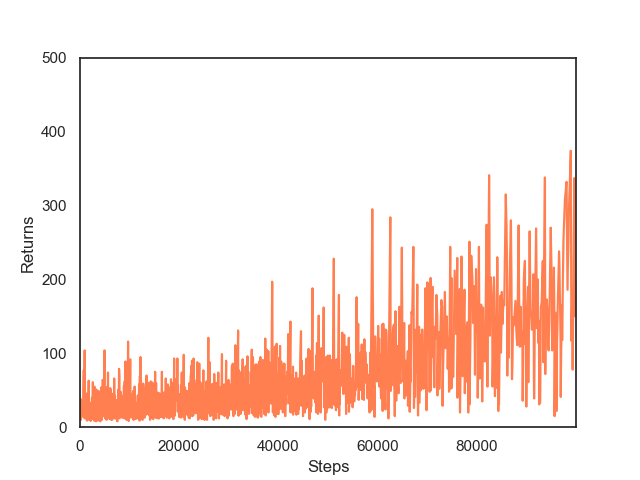
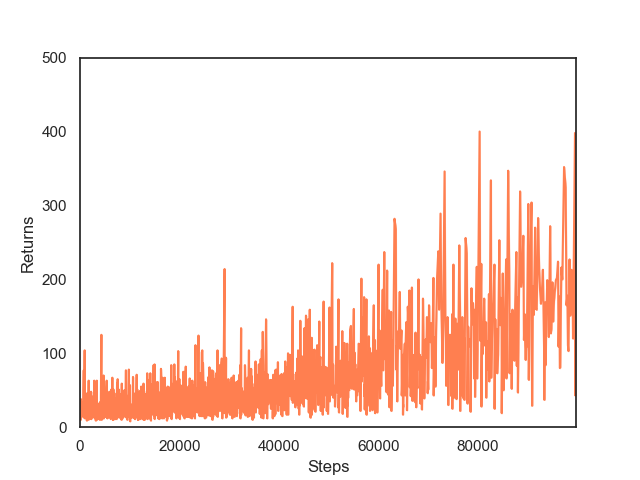
Add DRIL

diff --git a/main.py b/main.py
@@ -8,7 +8,7 @@ from tqdm import tqdm
 
 from environments import CartPoleEnv
 from evaluation import evaluate_agent
-from models import ActorCritic, AIRLDiscriminator, GAILDiscriminator, GMMILDiscriminator, REDDiscriminator
+from models import Actor, ActorCritic, AIRLDiscriminator, GAILDiscriminator, GMMILDiscriminator, REDDiscriminator
 from training import TransitionDataset, adversarial_imitation_update, behavioural_cloning_update, compute_advantages, indicate_absorbing, ppo_update, target_estimation_update
 from utils import flatten_list_dicts, lineplot
 
@@ -30,7 +30,7 @@ parser.add_argument('--max-grad-norm', type=float, default=1, metavar='N', help=
 parser.add_argument('--evaluation-interval', type=int, default=10000, metavar='EI', help='Evaluation interval')
 parser.add_argument('--evaluation-episodes', type=int, default=50, metavar='EE', help='Evaluation episodes')
 parser.add_argument('--save-trajectories', action='store_true', default=False, help='Store trajectories from agent after training')
-parser.add_argument('--imitation', type=str, default='', choices=['AIRL', 'BC', 'GAIL', 'GMMIL', 'RED'], metavar='I', help='Imitation learning algorithm')
+parser.add_argument('--imitation', type=str, default='', choices=['AIRL', 'BC', 'DRIL', 'GAIL', 'GMMIL', 'RED'], metavar='I', help='Imitation learning algorithm')
 parser.add_argument('--state-only', action='store_true', default=False, help='State-only imitation learning')
 parser.add_argument('--absorbing', action='store_true', default=False, help='Indicate absorbing states')
 parser.add_argument('--imitation-epochs', type=int, default=5, metavar='IE', help='Imitation learning epochs')
@@ -51,16 +51,18 @@ if args.imitation:
   # Set up expert trajectories dataset
   expert_trajectories = TransitionDataset(flatten_list_dicts(torch.load('expert_trajectories.pth')))
   # Set up discriminator
-  if args.imitation in ['AIRL', 'GAIL', 'GMMIL', 'RED']:
+  if args.imitation in ['AIRL', 'DRIL', 'GAIL', 'GMMIL', 'RED']:
     if args.imitation == 'AIRL':
       discriminator = AIRLDiscriminator(env.observation_space.shape[0] + (1 if args.absorbing else 0), env.action_space.n, args.hidden_size, args.discount, state_only=args.state_only)
+    elif args.imitation == 'DRIL':
+      discriminator = Actor(env.observation_space.shape[0], env.action_space.n, args.hidden_size, dropout=0.1)
     elif args.imitation == 'GAIL':
       discriminator = GAILDiscriminator(env.observation_space.shape[0] + (1 if args.absorbing else 0), env.action_space.n, args.hidden_size, state_only=args.state_only)
     elif args.imitation == 'GMMIL':
       discriminator = GMMILDiscriminator(env.observation_space.shape[0] + (1 if args.absorbing else 0), env.action_space.n, state_only=args.state_only)
     elif args.imitation == 'RED':
       discriminator = REDDiscriminator(env.observation_space.shape[0] + (1 if args.absorbing else 0), env.action_space.n, args.hidden_size, state_only=args.state_only)
-    if args.imitation in ['AIRL', 'GAIL', 'RED']:
+    if args.imitation in ['AIRL', 'DRIL', 'GAIL', 'RED']:
       discriminator_optimiser = optim.RMSprop(discriminator.parameters(), lr=args.learning_rate)
 # Metrics
 metrics = dict(train_steps=[], train_returns=[], test_steps=[], test_returns=[])
@@ -70,12 +72,17 @@ metrics = dict(train_steps=[], train_returns=[], test_steps=[], test_returns=[])
 state, terminal, episode_return, trajectories, policy_trajectory_replay_buffer = env.reset(), False, 0, [], deque(maxlen=args.imitation_replay_size)
 pbar = tqdm(range(1, args.steps + 1), unit_scale=1, smoothing=0)
 for step in pbar:
-  if args.imitation in ['BC', 'RED']:
+  if args.imitation in ['BC', 'DRIL', 'RED']:
     if step == 1:
       for _ in tqdm(range(args.imitation_epochs), leave=False):
         if args.imitation == 'BC':
           # Perform behavioural cloning updates offline
           behavioural_cloning_update(agent, expert_trajectories, agent_optimiser, args.imitation_batch_size)
+        elif args.imitation == 'DRIL':
+          # Perform behavioural cloning updates offline on policy ensemble (dropout version)
+          behavioural_cloning_update(discriminator, expert_trajectories, discriminator_optimiser, args.imitation_batch_size)
+          with torch.no_grad():
+            discriminator.set_uncertainty_threshold(expert_trajectories['states'], expert_trajectories['actions'])
         elif args.imitation == 'RED':
           # Train predictor network to match random target network
           target_estimation_update(discriminator, expert_trajectories, discriminator_optimiser, args.imitation_batch_size, args.absorbing)
@@ -101,7 +108,7 @@ for step in pbar:
         policy_trajectories = flatten_list_dicts(trajectories)  # Flatten policy trajectories (into a single batch for efficiency; valid for feedforward networks)
         trajectories = []  # Clear the set of trajectories
 
-        if args.imitation in ['AIRL', 'GAIL', 'GMMIL', 'RED']:
+        if args.imitation in ['AIRL', 'DRIL', 'GAIL', 'GMMIL', 'RED']:
           # Train discriminator and predict rewards
           if args.imitation in ['AIRL', 'GAIL']:
             # Use a replay buffer of previous trajectories to prevent overfitting to current policy
@@ -117,6 +124,9 @@ for step in pbar:
           with torch.no_grad():
             if args.imitation == 'AIRL':
               policy_trajectories['rewards'] = discriminator.predict_reward(states, actions, next_states, policy_trajectories['log_prob_actions'].exp(), terminals)
+            elif args.imitation == 'DRIL':
+              # Note that by default DRIL also includes behavioural cloning online
+              policy_trajectories['rewards'] = discriminator.predict_reward(states, actions)
             elif args.imitation == 'GAIL':
               policy_trajectories['rewards'] = discriminator.predict_reward(states, actions)
             elif args.imitation == 'GMMIL':

diff --git a/models.py b/models.py
@@ -22,13 +22,39 @@ def _gaussian_kernel(x, y, gamma=1):
 
 
 class Actor(nn.Module):
-  def __init__(self, state_size, action_size, hidden_size):
+  def __init__(self, state_size, action_size, hidden_size, dropout=0):
     super().__init__()
-    self.actor = nn.Sequential(nn.Linear(state_size, hidden_size), nn.Tanh(), nn.Linear(hidden_size, hidden_size), nn.Tanh(), nn.Linear(hidden_size, action_size))
+    if dropout > 0:
+      self.actor = nn.Sequential(nn.Linear(state_size, hidden_size), nn.Dropout(p=dropout), nn.Tanh(), nn.Linear(hidden_size, hidden_size), nn.Dropout(p=dropout), nn.Tanh(), nn.Linear(hidden_size, action_size))
+    else:
+      self.actor = nn.Sequential(nn.Linear(state_size, hidden_size), nn.Tanh(), nn.Linear(hidden_size, hidden_size), nn.Tanh(), nn.Linear(hidden_size, action_size))
 
   def forward(self, state):
     policy = Categorical(logits=self.actor(state))
     return policy
+
+  # Calculates the log probability of an action a with the policy π(·|s) given state s
+  def log_prob(self, state, action):
+    return self.forward(state).log_prob(action)
+
+  def _get_action_uncertainty(self, state, action):
+    ensemble_policies = []
+    for _ in range(5):  # Perform Monte-Carlo dropout for an implicit ensemble
+      ensemble_policies.append(self.forward(state).log_prob(action).exp())
+    return torch.stack(ensemble_policies).var(dim=0)
+
+  # Set uncertainty threshold at the 98th quantile of uncertainty costs calculated over the expert data
+  def set_uncertainty_threshold(self, expert_state, expert_action):
+    self.q = torch.quantile(self._get_action_uncertainty(expert_state, expert_action), 0.98).item()
+
+  def predict_reward(self, state, action):
+    # Calculate (raw) uncertainty cost
+    uncertainty_cost = self._get_action_uncertainty(state, action)
+    # Calculate clipped uncertainty cost
+    neg_idxs = uncertainty_cost.less_equal(self.q)
+    uncertainty_cost[neg_idxs] = -1
+    uncertainty_cost[~neg_idxs] = 1
+    return -uncertainty_cost
 
 
 class Critic(nn.Module):
@@ -53,7 +79,7 @@ class ActorCritic(nn.Module):
 
   # Calculates the log probability of an action a with the policy π(·|s) given state s
   def log_prob(self, state, action):
-    return self.actor(state).log_prob(action)
+    return self.actor.log_prob(state, action)
 
 
 class GAILDiscriminator(nn.Module):

diff --git a/README.md b/README.md
@@ -7,11 +7,12 @@ Imitation learning algorithms (with PPO [[1]](#references)):
 - ~~ABC [[2]](#references)~~
 - AIRL [[3]](#references)
 - BC [[4]](#references)
-- GAIL [[5]](#references)
-- GMMIL [[6]](#references)
-- ~~InfoGAIL [[7]](#references)~~
-- ~~PWIL [[8]](#references)~~
-- RED [[9]](#references)
+- DRIL [[5]](#references)
+- GAIL [[6]](#references)
+- GMMIL [[7]](#references)
+- ~~InfoGAIL [[8]](#references)~~
+- ~~PWIL [[9]](#references)~~
+- RED [[10]](#references)
 
 ```
 python main.py --imitation [AIRL|BC|GAIL|GMMIL|RED]
@@ -21,8 +22,8 @@ python main.py --imitation [AIRL|BC|GAIL|GMMIL|RED]
 Options include:
 
 - State-only imitation learning: `--state-only`
-- Absorbing state indicator [[10]](#references): `--absorbing`
-- R1 gradient regularisation [[11]](#references): `--r1-reg-coeff 1` (default)
+- Absorbing state indicator [[11]](#references): `--absorbing`
+- R1 gradient regularisation [[12]](#references): `--r1-reg-coeff 1` (default)
 
 Results
 -------
@@ -44,6 +45,12 @@ Train | Test
 Train | Test
 :----:|:---:
 ![bc_test_returns](figures/bc_test_returns.png) | ![bc_test_returns](figures/bc_test_returns.png)
+
+**DRIL**
+
+Train | Test
+:----:|:---:
+![dril_train_returns](figures/dril_train_returns.png) | ![dril_test_returns](figures/dril_test_returns.png)
 
 **GAIL**
 
@@ -75,10 +82,11 @@ References
 [2] [Adversarial Behavioral Cloning](https://www.tandfonline.com/doi/abs/10.1080/01691864.2020.1729237)  
 [3] [Learning Robust Rewards with Adversarial Inverse Reinforcement Learning](https://arxiv.org/abs/1710.11248)  
 [4] [Efficient Training of Artificial Neural Networks for Autonomous Navigation](https://www.mitpressjournals.org/doi/abs/10.1162/neco.1991.3.1.88?journalCode=neco)  
-[5] [Generative Adversarial Imitation Learning](https://arxiv.org/abs/1606.03476)  
-[6] [Imitation Learning via Kernel Mean Embedding](https://www.aaai.org/ocs/index.php/AAAI/AAAI18/paper/viewPaper/16807)  
-[7] [InfoGAIL: Interpretable Imitation Learning from Visual Demonstrations](https://arxiv.org/abs/1703.08840)  
-[8] [Primal Wasserstein Imitation Learning](https://arxiv.org/abs/2006.04678)  
-[9] [Random Expert Distillation: Imitation Learning via Expert Policy Support Estimation](https://arxiv.org/abs/1905.06750)  
-[10] [Discriminator-Actor-Critic: Addressing Sample Inefficiency and Reward Bias in Adversarial Imitation Learning](https://arxiv.org/abs/1809.02925)  
-[11] [Which Training Methods for GANs do actually Converge?](https://arxiv.org/abs/1801.04406)  
+[5] [Disagreement-Regularized Imitation Learning](https://openreview.net/forum?id=rkgbYyHtwB)  
+[6] [Generative Adversarial Imitation Learning](https://arxiv.org/abs/1606.03476)  
+[7] [Imitation Learning via Kernel Mean Embedding](https://www.aaai.org/ocs/index.php/AAAI/AAAI18/paper/viewPaper/16807)  
+[8] [InfoGAIL: Interpretable Imitation Learning from Visual Demonstrations](https://arxiv.org/abs/1703.08840)  
+[9] [Primal Wasserstein Imitation Learning](https://arxiv.org/abs/2006.04678)  
+[10] [Random Expert Distillation: Imitation Learning via Expert Policy Support Estimation](https://arxiv.org/abs/1905.06750)  
+[11] [Discriminator-Actor-Critic: Addressing Sample Inefficiency and Reward Bias in Adversarial Imitation Learning](https://arxiv.org/abs/1809.02925)  
+[12] [Which Training Methods for GANs do actually Converge?](https://arxiv.org/abs/1801.04406)  
